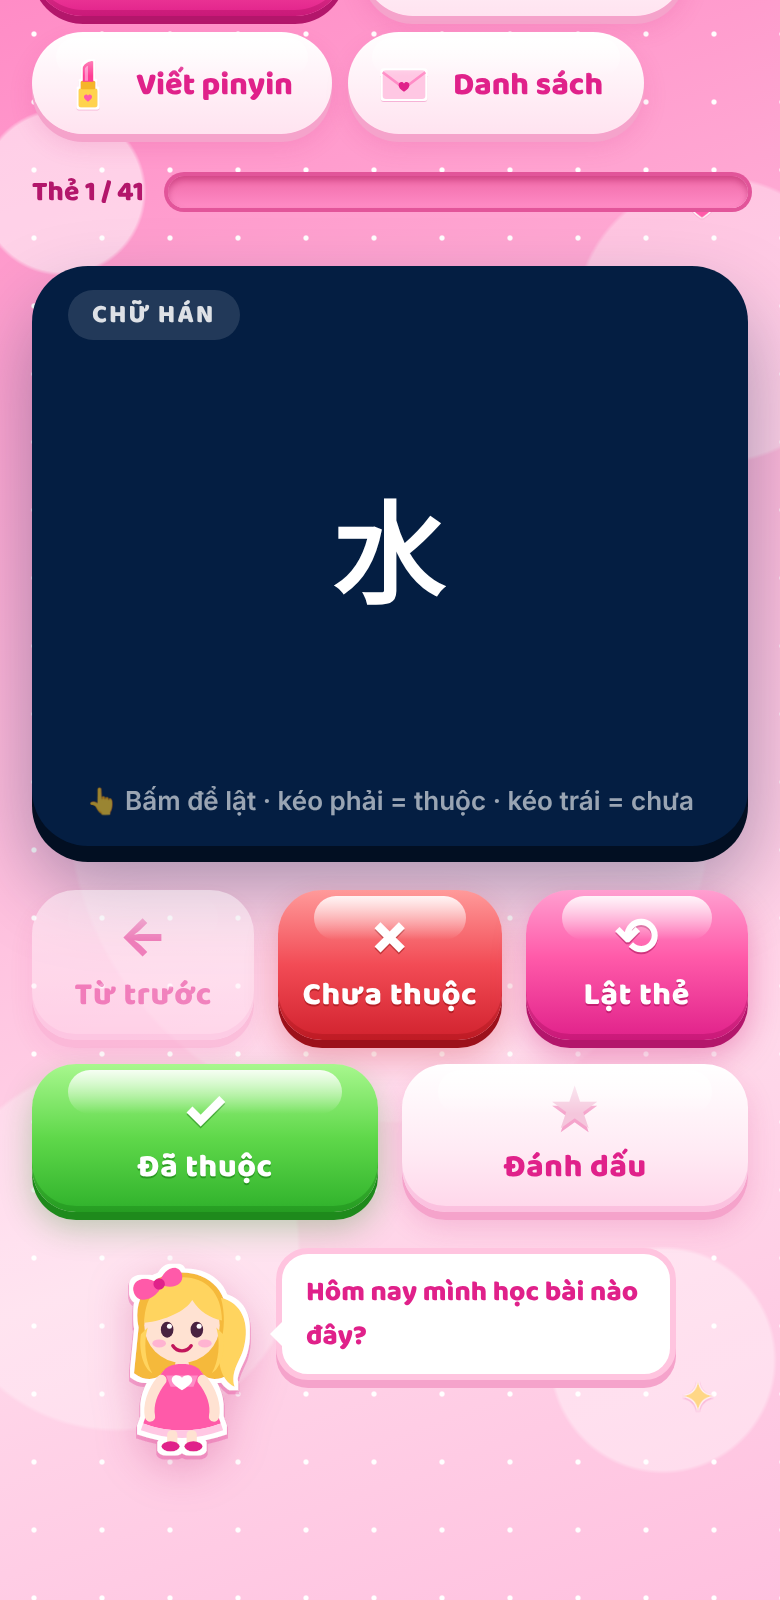
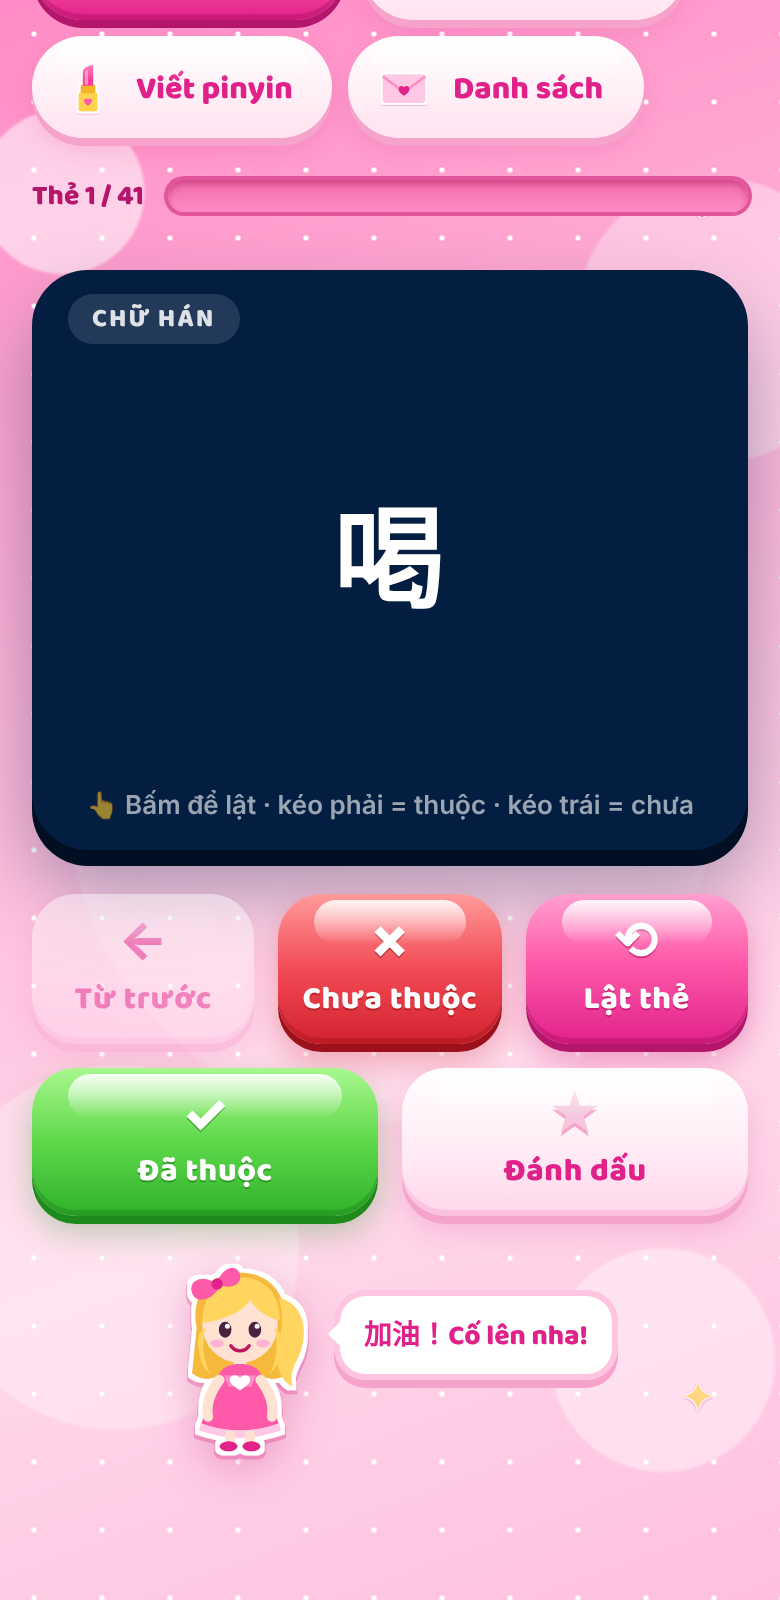
Thêm cấu hình VS Code (tasks build/xem thử/test), package.json, .gitattributes; test giả lập Google
Claude-Session: https://claude.ai/code/session_01Dypauwv2sothv1tKkrzt1S

diff --git a/test_tu_dong.js b/test_tu_dong.js
@@ -1,10 +1,11 @@
+// Test tự động toàn bộ app: npm test  (cần: npm install, chạy python3 build.py trước)
 const {chromium}=require('playwright');
 const url='file://'+require('path').resolve(__dirname,'dist/On_Tieng_Trung.html');
 const results=[];const ok=(name,cond,info='')=>results.push(`${cond?'✅':'❌'} ${name}${info?' — '+info:''}`);
 (async()=>{
 const b=await chromium.launch();
 const ctx=await b.newContext({viewport:{width:1300,height:850}});
-const p=await ctx.newPage();const errs=[];p.on('pageerror',e=>errs.push(e.message));p.on('console',m=>{if(m.type()==='error')errs.push('console: '+m.text())});
+const p=await ctx.newPage();await p.route('https://script.google.com/**',r=>r.fulfill({status:200,body:'ok'}));const errs=[];p.on('pageerror',e=>errs.push(e.message));p.on('console',m=>{if(m.type()==='error')errs.push('console: '+m.text())});
 await p.goto(url);await p.waitForTimeout(600);
 ok('Trang chủ hiển thị 15 bài',(await p.$$('.lesson')).length===15);
 // mở từng bài, đếm từ
@@ -89,7 +90,7 @@ ok('Lưu tiến độ sau khi tải lại trang',known1===known2&&known2>0,known
 ok('Không có lỗi JavaScript',errs.length===0,errs.join(' | '));
 // --- mobile
 const m=await b.newPage({viewport:{width:390,height:800},deviceScaleFactor:2,hasTouch:true});
-const merrs=[];m.on('pageerror',e=>merrs.push(e.message));
+await m.route('https://script.google.com/**',r=>r.fulfill({status:200,body:'ok'}));const merrs=[];m.on('pageerror',e=>merrs.push(e.message));
 await m.goto(url);await m.waitForTimeout(500);await m.screenshot({path:'mob1.png'});
 await m.click('.lesson >> nth=0');await m.waitForTimeout(400);await m.screenshot({path:'mob2.png'});
 const overlap=await m.evaluate(()=>{const a=document.querySelector('#mascot').getBoundingClientRect();return [...document.querySelectorAll('.fc-actions .btn')].some(btn=>{const r=btn.getBoundingClientRect();return !(r.right<a.left||r.left>a.right||r.bottom<a.top||r.top>a.bottom)})});

diff --git a/README.md b/README.md
@@ -1,5 +1,10 @@
 # Halken nhắc Babie học tiếng Trung — mã nguồn
 
+## Mở bằng VS Code
+- `Cmd+Shift+B` → **Build bộ cài** (ra `dist/Babie_hoc_tieng_Trung.zip`)
+- `Cmd+Shift+P` → *Tasks: Run Task* → **Xem thử app** / **Chạy test tự động** / **Mở thư mục dist**
+- Lần đầu chạy test: `npm install && npx playwright install chromium`
+
 ## Cập nhật bản mới (3 bước)
 1. Sửa cái cần sửa:
    - Từ vựng: `data/*.txt` (mỗi cuốn 1 file)
